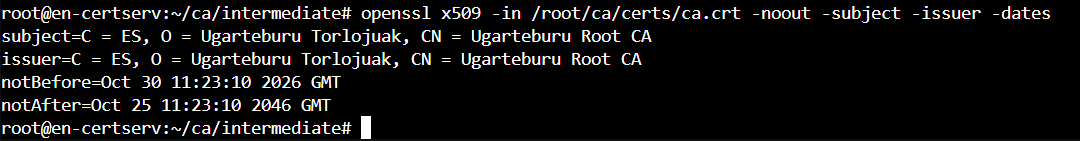
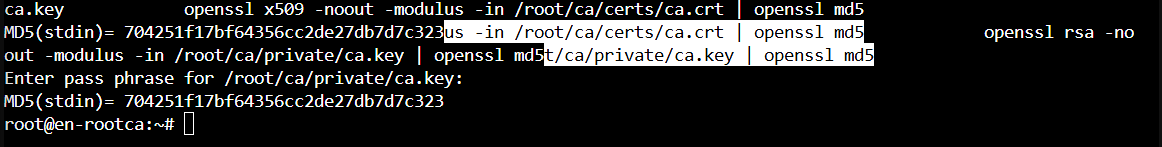
pki

Changed region(s): [[0.0, 0.0, 0.9778, 0.9929], [0.825, 0.1702, 0.9778, 0.2837]]

diff --git a/dokumentazioa/gotortze/pki/README.md b/dokumentazioa/gotortze/pki/README.md
@@ -1,25 +1,33 @@
-# EN – PKI (EN-CertServ)
+# EN – PKI (Root CA + Intermediate CA)
 
 Ugarteburu Torlojuak · 2. Erronka
 
-Enpresako ziurtagiri guztiak (VPN, HTTPS…) EN egoitzako zerbitzari bakar batean sortzen dira, ez ekipoetan bertan. Bi mailako PKI bat da: Root CA-k Intermediate CA bakarrik sinatzen du, eta Intermediate CA-k sinatzen ditu gainerako ziurtagiri guztiak. Horrela Root CA-ren gakoa ia inoiz ez da erabiltzen, eta Intermediate CA arriskuan egonez gero, errebokatu eta berri bat sor daiteke Root-a ukitu gabe.
+Enpresako ziurtagiri guztiak (VPN, HTTPS…) enpresaren PKI-ak sortzen ditu, ez ekipoetan bertan. Bi mailako PKI bat da, bi makinatan banatuta:
+
+- **EN-RootCA** — Root CA. Intermediate CA bakarrik sinatzen du. Hori eginda, makina **itzalita** (offline) mantentzen da: horrela Root CA-ren gako pribatua ez dago sarean konektatutako makina batean, eta erasotzaile batek ezin du eskuratu.
+- **EN-CertServ** — Intermediate CA. Online dago eta egunerokoan sinatzen ditu zerbitzu-ziurtagiriak (VPN, HTTPS…).
+
+Horrela Root CA-ren gakoa ia inoiz ez da erabiltzen, eta Intermediate CA arriskuan egonez gero, errebokatu eta berri bat sor daiteke Root-a ukitu gabe.
 
 | | Root CA | Intermediate CA |
 |---|---|---|
+| Makina | EN-RootCA (offline) | EN-CertServ (online) |
 | CN | Ugarteburu Root CA | Ugarteburu Intermediate CA |
 | Gakoa | RSA 4096, AES-256 bidez zifratuta | RSA 4096, AES-256 bidez zifratuta |
 | Iraupena | 20 urte | 10 urte |
-| Sinatzen du | Intermediate CA | Zerbitzu-ziurtagiriak (VPN…) |
+| Sinatzen du | Intermediate CA | Zerbitzu-ziurtagiriak (VPN, HTTPS…) |
 
-## 1. Makina birtuala (Proxmox)
+## 1. Makina birtualak (Proxmox)
 
-EN-CertServ VM 106 da: Ubuntu Server 24.04 LTS, 2 vCPU, 2 GB RAM eta 20 GB-eko diskoa. Sare-txartela trunk-eko bridge-an dago, **VLAN tag 111**-rekin (ZERBITZARIAK). Serie-ataka bat ere gehitu zaio, 3. atalean azaltzen den kontsolarako.
+**EN-CertServ** (Intermediate, online): Ubuntu Server 24.04 LTS, 2 vCPU, 2 GB RAM eta 20 GB-eko diskoa. Sare-txartela trunk-eko bridge-an dago, **VLAN tag 111**-rekin (ZERBITZARIAK). Serie-ataka bat ere badu, 3. atalean azaltzen den kontsolarako.
 
 ![Proxmox hardwarea](img/01-proxmox-hardware.png)
 
+**EN-RootCA** (Root, offline): Ubuntu Server minimoa, 1 vCPU, 1 GB RAM. Intermediate CA sinatu ondoren itzalita dago, eta sare-txartela deskonektatuta. Soilik piztuko litzateke Intermediate berri bat edo CRL bat sinatu behar izanez gero.
+
 ## 2. Sarea
 
-IP finkoa du ZERBITZARIAK sarean:
+EN-CertServ-ek IP finkoa du ZERBITZARIAK sarean:
 
 | | |
 |---|---|
@@ -41,9 +49,11 @@ timedatectl        # System clock synchronized: yes
 
 ![Internetera irteera (HTTPS)](img/02-sarea-curl.png)
 
+EN-RootCA offline dagoenez, ez du sare-ezarpen iraunkorrik behar.
+
 ## 3. Kontsola serie (xterm.js)
 
-Proxmox-eko noVNC kontsolak ez du testua itsasten uzten, eta konfigurazio-fitxategiak luzeak dira. Horregatik VM-ari serie-ataka bat gehitu zaio (*Hardware › Add › Serial Port 0*) eta `getty` gaitu da bertan:
+Proxmox-eko noVNC kontsolak ez du testua itsasten uzten, eta konfigurazio-fitxategiak luzeak dira. Horregatik VM-ei serie-ataka bat gehitu zaie (*Hardware › Add › Serial Port 0*) eta `getty` gaitu da bertan:
 
 ```bash
 sudo systemctl enable serial-getty@ttyS0
@@ -53,50 +63,54 @@ VM-a berrabiarazi ondoren, *Console › xterm.js* kontsolak kopiatu eta itsatsi 
 
 ## 4. Direktorio-egitura
 
-Dena `root`-en etxean dago, gainerako erabiltzaileek sarbiderik izan ez dezaten. Gako pribatuen karpetek `700` baimenak dituzte.
+Makina bakoitzean dena `root`-en etxean dago, gainerako erabiltzaileek sarbiderik izan ez dezaten. Gako pribatuen karpetek `700` baimenak dituzte.
 
-```bash
-sudo -i
-mkdir -p /root/ca/{certs,crl,newcerts,private} /root/ca/intermediate/{certs,crl,csr,newcerts,private}
-chmod 700 /root/ca/private /root/ca/intermediate/private
-touch /root/ca/index.txt /root/ca/intermediate/index.txt
-echo 1000 > /root/ca/serial
-echo 1000 > /root/ca/intermediate/serial
-```
+**EN-RootCA** (Root CA):
 
 ```
 /root/ca/
 ├── openssl.cnf          Root CA-ren konfigurazioa
 ├── certs/ca.crt         Root CA-ren ziurtagiria
-├── private/ca.key       Root CA-ren gakoa
+├── private/ca.key       Root CA-ren gako pribatua (makina honetan BAKARRIK)
 ├── index.txt, serial    Sinatutako ziurtagirien datu-basea
+└── newcerts/            Sinatutako ziurtagiriak (Intermediate CA)
+```
+
+**EN-CertServ** (Intermediate CA):
+
+```
+/root/ca/
+├── certs/ca.crt              Root CA-ren ziurtagiria (publikoa, katea osatzeko)
+├── private/                 (hutsik — Root-en gakoa ez dago makina honetan)
 └── intermediate/
     ├── openssl.cnf
-    ├── certs/           intermediate.crt, ca-chain.crt, vpn-en.crt, vpn-u1.crt
-    ├── private/         intermediate.key, vpn-en.key, vpn-u1.key
+    ├── certs/               intermediate.crt, ca-chain.crt, vpn-*.crt, web-*.crt, ovpn-*.crt
+    ├── private/             intermediate.key eta zerbitzu-gakoak
     ├── csr/
     └── index.txt, serial
 ```
 
+EN-CertServ-ek Root CA-ren **ziurtagiria** (`ca.crt`, publikoa) du katea osatzeko, baina **ez du Root-en gako pribatua**: hori EN-RootCA-n bakarrik dago.
+
 ## 5. OpenSSL konfigurazioa
 
-`/root/ca/openssl.cnf` fitxategiak CA-ren bideak, `policy_loose` politika (CN derrigorrezkoa, gainerakoak aukerakoak) eta bi luzapen-profil definitzen ditu:
+`openssl.cnf` fitxategiak CA-ren bideak, `policy_loose` politika (CN derrigorrezkoa, gainerakoak aukerakoak) eta bi luzapen-profil definitzen ditu:
 
 - `v3_ca`: Root CA-rentzat (`CA:true`, `keyCertSign`, `cRLSign`).
 - `v3_intermediate_ca`: Intermediate CA-rentzat. `pathlen:0`-k esan nahi du Intermediate-k ezin duela beste CA bat sinatu, azken ziurtagiriak bakarrik.
 
 ![openssl.cnf](img/03-openssl-cnf.png)
 
-Intermediate-ren konfigurazioa bera da, bideak eta gakoaren izena aldatuta:
+Intermediate-ren konfigurazioa (EN-CertServ-en) bera da, bideak eta gakoaren izena aldatuta:
 
 ```bash
 sed -e 's#^dir *= /root/ca#dir           = /root/ca/intermediate#' \
     -e 's#private/ca.key#private/intermediate.key#' \
     -e 's#certs/ca.crt#certs/intermediate.crt#' \
-    /root/ca/openssl.cnf > /root/ca/intermediate/openssl.cnf
+    openssl.cnf > /root/ca/intermediate/openssl.cnf
 ```
 
-## 6. Root CA
+## 6. Root CA (EN-RootCA)
 
 Gakoa AES-256 bidez zifratuta sortzen da, eta ziurtagiria autosinatua da:
 
@@ -105,29 +119,39 @@ cd /root/ca
 openssl genrsa -aes256 -out private/ca.key 4096
 openssl req -config openssl.cnf -key private/ca.key -new -x509 -days 7300 \
   -subj "/C=ES/O=Ugarteburu Torlojuak/CN=Ugarteburu Root CA" -out certs/ca.crt
-openssl x509 -in certs/ca.crt -noout -subject -issuer -dates
 ```
 
-`subject` eta `issuer` berdinak dira, autosinatua delako.
-
-![Root CA](img/04-root-ca.png)
-
-## 7. Intermediate CA
-
-Intermediate-k bere gakoa eta CSR-a sortzen ditu, eta Root CA-k sinatzen du `v3_intermediate_ca` profilarekin. Ondoren `ca-chain.crt` sortzen da (Intermediate + Root), zerbitzuek kate osoa egiazta dezaten.
+EN-RootCA-n gordetzen dira Root CA-ren fitxategiak. Gakoaren eta ziurtagiriaren modulus-en `md5` berdina da, biak bikote bat direla egiaztatuz:
 
 ```bash
+openssl x509 -noout -modulus -in certs/ca.crt | openssl md5
+openssl rsa  -noout -modulus -in private/ca.key | openssl md5
+```
+
+![Root CA gakoa eta ziurtagiria bat datoz](img/04-root-ca.png)
+
+![Root CA-ren fitxategiak EN-RootCA-n](img/09-rootca-fitxategiak.png)
+
+## 7. Intermediate CA (EN-CertServ)
+
+Intermediate-k bere gakoa eta CSR-a sortzen ditu EN-CertServ-en, eta **Root CA-k sinatzen du** (EN-RootCA-n) `v3_intermediate_ca` profilarekin. Ondoren `ca-chain.crt` sortzen da (Intermediate + Root), zerbitzuek kate osoa egiazta dezaten.
+
+```bash
+# EN-CertServ-en: gakoa eta CSR-a
 openssl genrsa -aes256 -out intermediate/private/intermediate.key 4096
 openssl req -config intermediate/openssl.cnf -new -key intermediate/private/intermediate.key \
   -subj "/C=ES/O=Ugarteburu Torlojuak/CN=Ugarteburu Intermediate CA" -out intermediate/csr/intermediate.csr
-openssl ca -config openssl.cnf -extensions v3_intermediate_ca -days 3650 -notext \
-  -in intermediate/csr/intermediate.csr -out intermediate/certs/intermediate.crt
 
+# Root CA-k (EN-RootCA) CSR-a sinatzen du v3_intermediate_ca profilarekin
+
+# EN-CertServ-en: katea osatu
 cat intermediate/certs/intermediate.crt certs/ca.crt > intermediate/certs/ca-chain.crt
-openssl verify -CAfile certs/ca.crt intermediate/certs/intermediate.crt
+openssl verify -CAfile certs/ca-chain.crt intermediate/certs/intermediate.crt
 ```
 
-![Intermediate CA](img/05-intermediate-ca.png)
+Intermediate-ak katea ondo balioztatzen du (`OK`):
+
+![Intermediate CA egiaztapena](img/05-intermediate-ca.png)
 
 ## 8. VPN ziurtagiriak
 
@@ -186,6 +210,8 @@ openssl x509 -in certs/vpn-u1.crt -noout -subject -ext subjectAltName
 
 ![vpn-u1 ziurtagiria](img/07-vpn-u1.png)
 
+HTTPS eta OpenVPN ziurtagiriak prozedura berarekin sortzen dira; xehetasunak [kudeaketa-atzipenaren](../kudeaketa-atzipena/README.md) eta [OpenVPN-en](../openvpn/README.md) dokumentazioan daude.
+
 ## 9. Ziurtagirien banaketa
 
 Ziurtagiriak eta gakoak ez dira sare irekitik bidaltzen. Testu-formatuan (PEM) daudenez, kopiatu eta itsatsi egiten dira kanal seguru batetik:
@@ -201,7 +227,11 @@ Bi suebakiek Root eta Intermediate CA-ren ziurtagiriak bakarrik jasotzen dituzte
 
 ## 10. Segurtasuna
 
-- CA-en gako pribatuak AES-256 bidez zifratuta daude eta ez dira inoiz zerbitzaritik ateratzen. Pasahitzak pasahitz-kudeatzailean daude.
+- **Root CA offline:** Root CA-ren gako pribatua EN-RootCA makinan bakarrik dago, eta makina hori itzalita mantentzen da. EN-CertServ (online) makinak Intermediate-ren gakoa du soilik; `/root/ca/private/` hutsik dago, Root-en gakorik gabe. Hala ere, Intermediate-ak katea ondo balioztatzen du, eguneroko lanerako Root-en gakoa behar ez delako.
+
+![EN-CertServ-ek ez du Root-en gakorik](img/10-offline-root.png)
+
+- CA-en gako pribatuak AES-256 bidez zifratuta daude. Pasahitzak pasahitz-kudeatzailean daude.
 - `index.txt` fitxategian sinatutako ziurtagiri guztien erregistroa dago. VPN ziurtagirien lehen bertsioa domeinu okerrarekin sortu zen; ziurtagiri horiek errebokatu (`R`) eta berriak sortu ziren (`V`).
 
 ```bash
